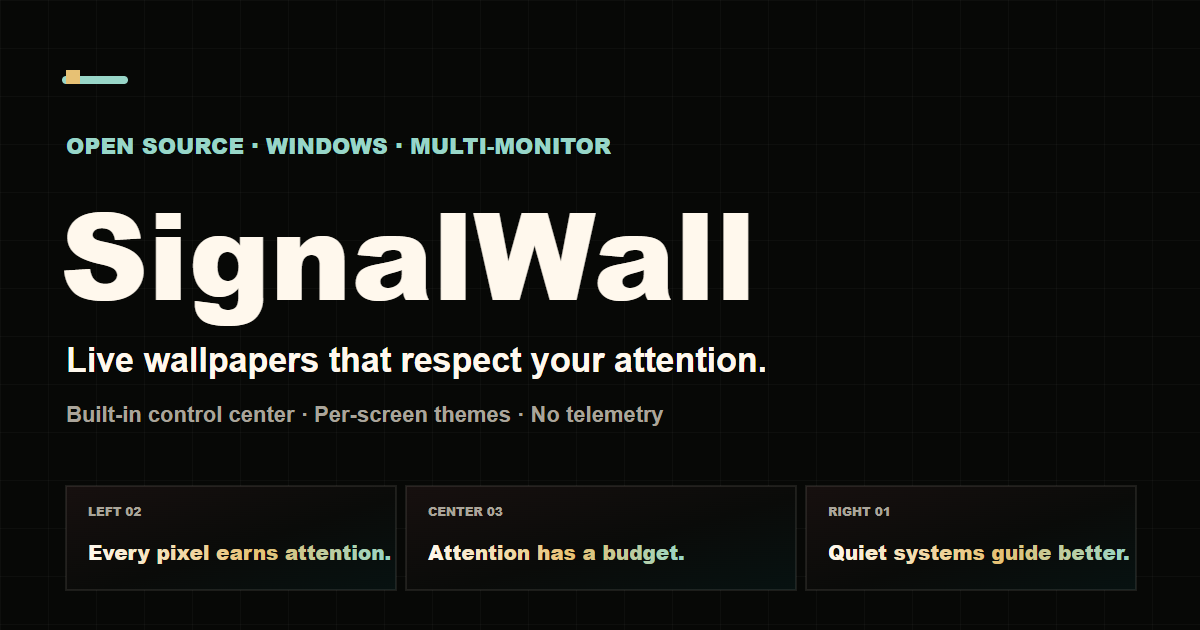
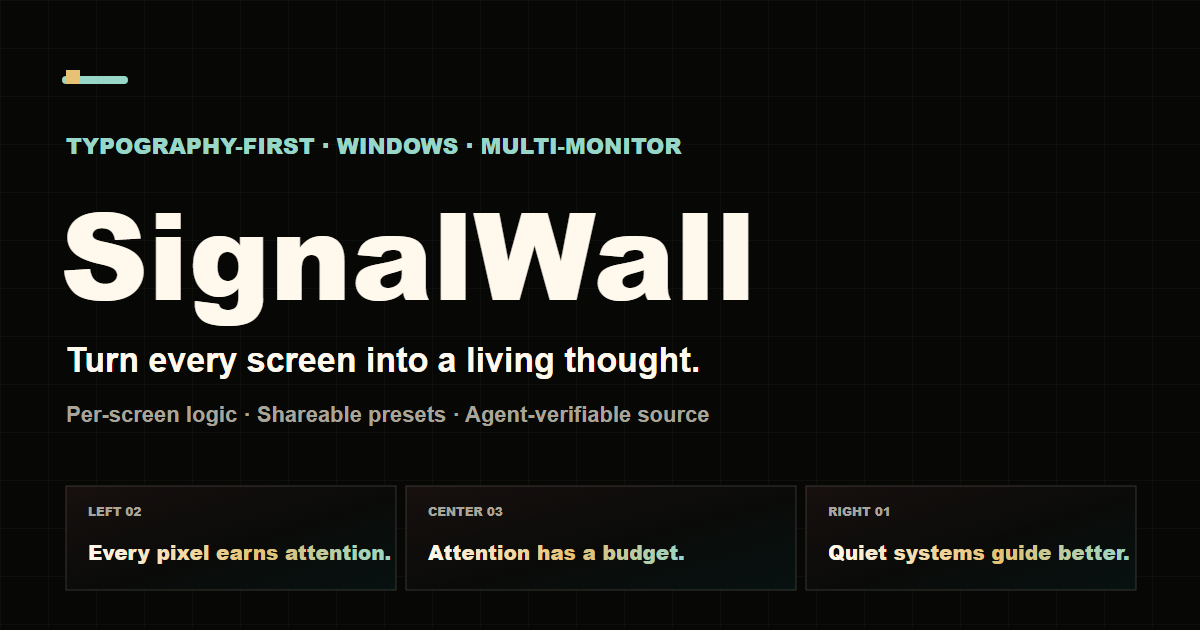
Sharpen SignalWall positioning

Changed region(s): [[0.0308, 0.5429, 0.6475, 0.6032], [0.0617, 0.6333, 0.5858, 0.6937], [0.0308, 0.2111, 0.5858, 0.2413]]

diff --git a/site.js b/site.js
@@ -8,25 +8,25 @@ const siteConfig = {
   },
   translations: {
     en: {
-      metaDescription: "SignalWall is a free, open-source Windows live wallpaper app with a built-in multi-monitor control center.",
-      pageTitle: "SignalWall - Live wallpapers that respect your attention",
+      metaDescription: "SignalWall is a free, open-source, typography-first live wallpaper system with independent controls for every Windows screen.",
+      pageTitle: "SignalWall - Typography-first live wallpapers for Windows",
       navDemo: "Live demo",
       navControl: "Control center",
       navTrust: "Trust",
       navInstall: "Install",
-      heroEyebrow: "Open source · Windows · Multi-monitor",
-      heroLead: "Live wallpapers that respect your attention.",
-      heroBody: "Quiet typography, subtle motion, and a built-in control center for every screen on your desk.",
+      heroEyebrow: "Typography-first · Windows · Multi-monitor",
+      heroLead: "Turn every screen into a living thought.",
+      heroBody: "Per-screen quotes, themes, timing, and motion, built for calm multi-monitor desks and shareable as one preset.",
       heroPrimary: "Get SignalWall",
       heroSecondary: "Try the live demo",
       trustOne: "No telemetry",
       trustTwo: "MIT licensed",
-      trustThree: "Attested releases",
+      trustThree: "Agent-verifiable",
       scrollLabel: "See it move",
-      stripOne: "One control center",
+      stripOne: "Typography, not video",
       stripTwo: "Independent screens",
-      stripThree: "Custom quote packs",
-      stripFour: "Five transition styles",
+      stripThree: "Shareable presets",
+      stripFour: "Agent-verifiable source",
       demoLabel: "Live product demo",
       demoTitle: "Three displays. One system.",
       demoIntro: "Change the mode, color, tempo, and transition. This is the same wallpaper engine bundled with SignalWall.",
@@ -57,14 +57,14 @@ const siteConfig = {
       controlPointFour: "Shareable preset files for complete setups",
       controlAlt: "SignalWall control center with settings and three screen columns",
       controlCaption: "Everything in one place. No Lively dependency.",
-      featuresLabel: "Built for daily use",
-      featuresTitle: "Calm is a feature.",
-      featureOneTitle: "Screen-aware",
-      featureOneBody: "Map physical left, center, and right displays instead of accepting arbitrary monitor numbers.",
-      featureTwoTitle: "Actually personal",
-      featureTwoBody: "Create your own themes and paste a full quote pack with one phrase per line.",
-      featureThreeTitle: "Source visible",
-      featureThreeBody: "No hidden telemetry. Inspect the C#, HTML, CSS, JavaScript, and release workflow.",
+      featuresLabel: "A different wallpaper category",
+      featuresTitle: "The words are the visual.",
+      featureOneTitle: "Typography-first",
+      featureOneBody: "Quotes, hierarchy, rhythm, and contrast are the medium, not an overlay on another wallpaper.",
+      featureTwoTitle: "Per-screen logic",
+      featureTwoBody: "Run one thought everywhere or assign each physical display its own quote pack and visual role.",
+      featureThreeTitle: "Portable setups",
+      featureThreeBody: "Export quotes, themes, screen order, timing, and motion as one shareable preset.",
       featureFourTitle: "Motion with restraint",
       featureFourBody: "Particles, grid, progress, and transitions are adjustable or removable.",
       trustLabel: "Proof, not promises",
@@ -82,12 +82,12 @@ const siteConfig = {
       copyVerify: "Copy command",
       copyDone: "Copied",
       installLabel: "Install with eyes open",
-      installTitle: "Open source first. Signed release next.",
-      installIntro: "Windows Smart App Control blocks unsigned desktop apps on strict systems. We do not ask you to disable it. Use the verified source workflow today while we pursue free open-source signing through SignPath Foundation.",
+      installTitle: "Let the source prove itself.",
+      installIntro: "Windows Smart App Control blocks unsigned desktop apps on strict systems. We do not ask you to disable it. Use the agent-verifiable source workflow today while we pursue free open-source signing through SignPath Foundation.",
       recommendedLabel: "Recommended now",
-      sourceInstallTitle: "AI-assisted source install",
-      sourceInstallBody: "Let Codex or Claude inspect the repository, build it locally, and report security findings before launch.",
-      sourceInstallCta: "Open verified prompt",
+      sourceInstallTitle: "Agent-verifiable source install",
+      sourceInstallBody: "Give Codex or Claude Code a purpose-built prompt to inspect the repository, review dependencies and workflows, build locally, and report security findings before launch.",
+      sourceInstallCta: "Open the audit prompt",
       releaseLabel: "For compatible systems",
       releaseTitle: "GitHub release",
       releaseBody: "Portable package, installer, checksums, SBOM, release manifest, and signed build provenance. Windows binaries remain unsigned.",
@@ -98,32 +98,32 @@ const siteConfig = {
       inspectBody: "Read the architecture, security policy, roadmap, CI, CodeQL, and release scripts.",
       inspectCta: "Browse source",
       closingLabel: "Signal over noise",
-      closingTitle: "Your desktop is already asking for attention. SignalWall asks less.",
+      closingTitle: "Not another video wallpaper. A calmer surface for thought.",
       closingPrimary: "Play with the demo",
       productHuntCta: "See the Product Hunt launch",
-      footerCopy: "Free, open source, and intentionally quiet.",
+      footerCopy: "Typography-first, open source, and intentionally quiet.",
       footerSecurity: "Security"
     },
     fr: {
-      metaDescription: "SignalWall est une application Windows gratuite et open source de fonds d’écran dynamiques avec un centre de contrôle multi-écran intégré.",
-      pageTitle: "SignalWall - Des fonds d’écran qui respectent votre attention",
+      metaDescription: "SignalWall est un système Windows gratuit et open source de fonds d’écran dynamiques centrés sur la typographie, avec des réglages indépendants pour chaque écran.",
+      pageTitle: "SignalWall - Des fonds d’écran typographiques pour Windows",
       navDemo: "Démo",
       navControl: "Centre de contrôle",
       navTrust: "Confiance",
       navInstall: "Installer",
-      heroEyebrow: "Open source · Windows · Multi-écran",
-      heroLead: "Des fonds d’écran qui respectent votre attention.",
-      heroBody: "Une typographie calme, un mouvement subtil et un centre de contrôle intégré pour chaque écran de votre bureau.",
+      heroEyebrow: "Centré sur la typographie · Windows · Multi-écran",
+      heroLead: "Transformez chaque écran en une pensée vivante.",
+      heroBody: "Citations, thèmes, rythme et mouvement par écran, conçus pour un bureau multi-écran calme et partageables dans un seul preset.",
       heroPrimary: "Obtenir SignalWall",
       heroSecondary: "Essayer la démo",
       trustOne: "Aucune télémétrie",
       trustTwo: "Licence MIT",
-      trustThree: "Releases attestées",
+      trustThree: "Vérifiable par un agent",
       scrollLabel: "Voir le mouvement",
-      stripOne: "Un seul centre de contrôle",
+      stripOne: "La typographie, pas la vidéo",
       stripTwo: "Écrans indépendants",
-      stripThree: "Packs de citations",
-      stripFour: "Cinq transitions",
+      stripThree: "Presets partageables",
+      stripFour: "Source vérifiable par un agent",
       demoLabel: "Démo interactive",
       demoTitle: "Trois écrans. Un seul système.",
       demoIntro: "Changez le mode, la couleur, le rythme et la transition. C’est le même moteur de fond d’écran que celui intégré à SignalWall.",
@@ -154,14 +154,14 @@ const siteConfig = {
       controlPointFour: "Fichiers de preset partageables pour une configuration complète",
       controlAlt: "Centre de contrôle SignalWall avec paramètres et trois colonnes d’écran",
       controlCaption: "Tout au même endroit. Aucune dépendance à Lively.",
-      featuresLabel: "Conçu pour le quotidien",
-      featuresTitle: "Le calme est une fonctionnalité.",
-      featureOneTitle: "Conscient des écrans",
-      featureOneBody: "Associez les écrans physiques gauche, central et droit au lieu d’accepter une numérotation arbitraire.",
-      featureTwoTitle: "Vraiment personnel",
-      featureTwoBody: "Créez vos thèmes et collez un pack complet avec une phrase par ligne.",
-      featureThreeTitle: "Source visible",
-      featureThreeBody: "Aucune télémétrie cachée. Inspectez le C#, le HTML, le CSS, le JavaScript et le workflow de release.",
+      featuresLabel: "Une autre catégorie de fond d’écran",
+      featuresTitle: "Les mots sont le visuel.",
+      featureOneTitle: "Centré sur la typographie",
+      featureOneBody: "Les citations, la hiérarchie, le rythme et le contraste sont le médium, pas une couche ajoutée à une autre image.",
+      featureTwoTitle: "Logique par écran",
+      featureTwoBody: "Affichez une pensée partout ou attribuez à chaque écran physique son pack de citations et son rôle visuel.",
+      featureThreeTitle: "Configurations portables",
+      featureThreeBody: "Exportez les citations, les thèmes, l’ordre des écrans, le rythme et le mouvement dans un preset partageable.",
       featureFourTitle: "Du mouvement avec retenue",
       featureFourBody: "Les particules, la grille, la progression et les transitions sont réglables ou désactivables.",
       trustLabel: "Des preuves, pas des promesses",
@@ -179,12 +179,12 @@ const siteConfig = {
       copyVerify: "Copier la commande",
       copyDone: "Copié",
       installLabel: "Installer en toute connaissance",
-      installTitle: "Open source aujourd’hui. Version signée ensuite.",
-      installIntro: "Windows Smart App Control bloque les applications non signées sur les systèmes stricts. Nous ne demandons pas de le désactiver. Utilisez le parcours source vérifié pendant que nous poursuivons une signature open source gratuite auprès de SignPath Foundation.",
+      installTitle: "Laissez la source faire ses preuves.",
+      installIntro: "Windows Smart App Control bloque les applications non signées sur les systèmes stricts. Nous ne demandons pas de le désactiver. Utilisez aujourd’hui le parcours source vérifiable par un agent pendant que nous poursuivons une signature open source gratuite auprès de SignPath Foundation.",
       recommendedLabel: "Recommandé maintenant",
-      sourceInstallTitle: "Installation source assistée par IA",
-      sourceInstallBody: "Demandez à Codex ou Claude d’inspecter le dépôt, de compiler localement et de présenter ses conclusions de sécurité avant le lancement.",
-      sourceInstallCta: "Ouvrir le prompt vérifié",
+      sourceInstallTitle: "Installation source vérifiable par un agent",
+      sourceInstallBody: "Donnez à Codex ou Claude Code un prompt conçu pour inspecter le dépôt, examiner les dépendances et les workflows, compiler localement et présenter ses conclusions de sécurité avant le lancement.",
+      sourceInstallCta: "Ouvrir le prompt d’audit",
       releaseLabel: "Pour les systèmes compatibles",
       releaseTitle: "Version GitHub",
       releaseBody: "Package portable, installateur, empreintes, SBOM, manifeste et provenance de build signée. Les binaires Windows restent non signés.",
@@ -195,10 +195,10 @@ const siteConfig = {
       inspectBody: "Consultez l’architecture, la politique de sécurité, la feuille de route, la CI, CodeQL et les scripts de release.",
       inspectCta: "Parcourir le code",
       closingLabel: "Le signal plutôt que le bruit",
-      closingTitle: "Votre bureau demande déjà votre attention. SignalWall en demande moins.",
+      closingTitle: "Pas un autre fond d’écran vidéo. Une surface plus calme pour vos idées.",
       closingPrimary: "Jouer avec la démo",
       productHuntCta: "Voir le lancement Product Hunt",
-      footerCopy: "Gratuit, open source et volontairement calme.",
+      footerCopy: "Centré sur la typographie, open source et volontairement calme.",
       footerSecurity: "Sécurité"
     }
   },

diff --git a/index.html b/index.html
@@ -4,18 +4,18 @@
   <meta charset="utf-8">
   <meta name="viewport" content="width=device-width, initial-scale=1">
   <meta name="theme-color" content="#070806">
-  <meta id="metaDescription" name="description" content="SignalWall is a free, open-source Windows live wallpaper app with a built-in multi-monitor control center.">
+  <meta id="metaDescription" name="description" content="SignalWall is a free, open-source, typography-first live wallpaper system with independent controls for every Windows screen.">
   <meta property="og:title" content="SignalWall by Nestcells">
-  <meta property="og:description" content="Calm, configurable live wallpapers for Windows multi-monitor desktops.">
+  <meta property="og:description" content="Typography-first live wallpapers with per-screen quotes, themes, motion, and shareable presets.">
   <meta property="og:type" content="website">
   <meta property="og:url" content="https://nestcells.com/">
-  <meta property="og:image" content="https://nestcells.com/assets/social-preview.png">
+  <meta property="og:image" content="https://nestcells.com/assets/social-preview.png?v=3">
   <meta property="og:locale" content="en_CA">
   <meta name="twitter:card" content="summary_large_image">
   <meta name="twitter:title" content="SignalWall by Nestcells">
-  <meta name="twitter:description" content="Calm, configurable live wallpapers for Windows multi-monitor desktops.">
-  <meta name="twitter:image" content="https://nestcells.com/assets/social-preview.png">
-  <title>SignalWall - Live wallpapers that respect your attention</title>
+  <meta name="twitter:description" content="Typography-first live wallpapers with per-screen quotes, themes, motion, and shareable presets.">
+  <meta name="twitter:image" content="https://nestcells.com/assets/social-preview.png?v=3">
+  <title>SignalWall - Typography-first live wallpapers for Windows</title>
   <link rel="canonical" href="https://nestcells.com/">
   <link rel="icon" type="image/png" href="assets/signalwall-icon.png">
   <link rel="preconnect" href="https://fonts.googleapis.com">
@@ -70,10 +70,10 @@
       </div>
 
       <div class="hero-copy">
-        <p class="eyebrow" data-i18n="heroEyebrow">Open source · Windows · Multi-monitor</p>
+        <p class="eyebrow" data-i18n="heroEyebrow">Typography-first · Windows · Multi-monitor</p>
         <h1 id="hero-title">SignalWall</h1>
-        <p class="hero-lead" data-i18n="heroLead">Live wallpapers that respect your attention.</p>
-        <p class="hero-body" data-i18n="heroBody">Quiet typography, subtle motion, and a built-in control center for every screen on your desk.</p>
+        <p class="hero-lead" data-i18n="heroLead">Turn every screen into a living thought.</p>
+        <p class="hero-body" data-i18n="heroBody">Per-screen quotes, themes, timing, and motion, built for calm multi-monitor desks and shareable as one preset.</p>
         <div class="hero-actions">
           <a class="button primary" href="#install" data-i18n="heroPrimary">Get SignalWall</a>
           <a class="button secondary" href="#demo" data-i18n="heroSecondary">Try the live demo</a>
@@ -81,7 +81,7 @@
         <div class="trust-line" aria-label="Project facts">
           <span data-i18n="trustOne">No telemetry</span>
           <span data-i18n="trustTwo">MIT licensed</span>
-          <span data-i18n="trustThree">Attested releases</span>
+          <span data-i18n="trustThree">Agent-verifiable</span>
         </div>
       </div>
 
@@ -92,10 +92,10 @@
     </section>
 
     <section class="signal-strip" aria-label="SignalWall capabilities">
-      <span data-i18n="stripOne">One control center</span>
+      <span data-i18n="stripOne">Typography, not video</span>
       <span data-i18n="stripTwo">Independent screens</span>
-      <span data-i18n="stripThree">Custom quote packs</span>
-      <span data-i18n="stripFour">Five transition styles</span>
+      <span data-i18n="stripThree">Shareable presets</span>
+      <span data-i18n="stripFour">Agent-verifiable source</span>
     </section>
 
     <section class="demo-section" id="demo" aria-labelledby="demo-title">
@@ -182,24 +182,24 @@
 
     <section class="feature-band" aria-labelledby="features-title">
       <div class="section-heading compact">
-        <p class="section-label" data-i18n="featuresLabel">Built for daily use</p>
-        <h2 id="features-title" data-i18n="featuresTitle">Calm is a feature.</h2>
+        <p class="section-label" data-i18n="featuresLabel">A different wallpaper category</p>
+        <h2 id="features-title" data-i18n="featuresTitle">The words are the visual.</h2>
       </div>
       <div class="feature-list">
         <article>
           <span>01</span>
-          <h3 data-i18n="featureOneTitle">Screen-aware</h3>
-          <p data-i18n="featureOneBody">Map physical left, center, and right displays instead of accepting arbitrary monitor numbers.</p>
+          <h3 data-i18n="featureOneTitle">Typography-first</h3>
+          <p data-i18n="featureOneBody">Quotes, hierarchy, rhythm, and contrast are the medium, not an overlay on another wallpaper.</p>
         </article>
         <article>
           <span>02</span>
-          <h3 data-i18n="featureTwoTitle">Actually personal</h3>
-          <p data-i18n="featureTwoBody">Create your own themes and paste a full quote pack with one phrase per line.</p>
+          <h3 data-i18n="featureTwoTitle">Per-screen logic</h3>
+          <p data-i18n="featureTwoBody">Run one thought everywhere or assign each physical display its own quote pack and visual role.</p>
         </article>
         <article>
           <span>03</span>
-          <h3 data-i18n="featureThreeTitle">Source visible</h3>
-          <p data-i18n="featureThreeBody">No hidden telemetry. Inspect the C#, HTML, CSS, JavaScript, and release workflow.</p>
+          <h3 data-i18n="featureThreeTitle">Portable setups</h3>
+          <p data-i18n="featureThreeBody">Export quotes, themes, screen order, timing, and motion as one shareable preset.</p>
         </article>
         <article>
           <span>04</span>
@@ -249,18 +249,18 @@
     <section class="install-section" id="install" aria-labelledby="install-title">
       <div class="section-heading">
         <p class="section-label" data-i18n="installLabel">Install with eyes open</p>
-        <h2 id="install-title" data-i18n="installTitle">Open source first. Signed release next.</h2>
-        <p data-i18n="installIntro">Windows Smart App Control blocks unsigned desktop apps on strict systems. We do not ask you to disable it. Use the verified source workflow today while we pursue free open-source signing through SignPath Foundation.</p>
+        <h2 id="install-title" data-i18n="installTitle">Let the source prove itself.</h2>
+        <p data-i18n="installIntro">Windows Smart App Control blocks unsigned desktop apps on strict systems. We do not ask you to disable it. Use the agent-verifiable source workflow today while we pursue free open-source signing through SignPath Foundation.</p>
       </div>
 
       <div class="install-paths">
         <article class="install-path recommended">
           <div>
             <span data-i18n="recommendedLabel">Recommended now</span>
-            <h3 data-i18n="sourceInstallTitle">AI-assisted source install</h3>
-            <p data-i18n="sourceInstallBody">Let Codex or Claude inspect the repository, build it locally, and report security findings before launch.</p>
+            <h3 data-i18n="sourceInstallTitle">Agent-verifiable source install</h3>
+            <p data-i18n="sourceInstallBody">Give Codex or Claude Code a purpose-built prompt to inspect the repository, review dependencies and workflows, build locally, and report security findings before launch.</p>
           </div>
-          <a class="button primary" id="sourceInstallButton" href="https://github.com/Sabertlili/signalwall/blob/main/docs/ai-assisted-install.en.md" data-i18n="sourceInstallCta">Open verified prompt</a>
+          <a class="button primary" id="sourceInstallButton" href="https://github.com/Sabertlili/signalwall/blob/main/docs/ai-assisted-install.en.md" data-i18n="sourceInstallCta">Open the audit prompt</a>
         </article>
         <article class="install-path">
           <div>
@@ -286,7 +286,7 @@
 
     <section class="closing-section">
       <p class="section-label" data-i18n="closingLabel">Signal over noise</p>
-      <h2 data-i18n="closingTitle">Your desktop is already asking for attention. SignalWall asks less.</h2>
+      <h2 data-i18n="closingTitle">Not another video wallpaper. A calmer surface for thought.</h2>
       <div class="closing-actions">
         <a class="button primary" href="#demo" data-i18n="closingPrimary">Play with the demo</a>
         <a class="text-link" href="https://www.producthunt.com/products/signalwall?launch=signalwall" rel="noreferrer" data-i18n="productHuntCta">See the Product Hunt launch</a>
@@ -299,7 +299,7 @@
       <img src="assets/signalwall-icon.png" alt="">
       <span>SignalWall</span>
     </div>
-    <p data-i18n="footerCopy">Free, open source, and intentionally quiet.</p>
+    <p data-i18n="footerCopy">Typography-first, open source, and intentionally quiet.</p>
     <div>
       <a href="https://github.com/Sabertlili/signalwall" rel="noreferrer">GitHub</a>
       <a href="https://github.com/Sabertlili/signalwall/blob/main/LICENSE" rel="noreferrer">MIT</a>
@@ -307,6 +307,6 @@
     </div>
   </footer>
 
-  <script src="site.js?v=20260619-v03"></script>
+  <script src="site.js?v=20260619-v04"></script>
 </body>
 </html>

diff --git a/README.md b/README.md
@@ -7,7 +7,7 @@ Includes:
 - bilingual EN/FR copy;
 - interactive mini demo;
 - Open Graph / Twitter share metadata;
-- source-first install CTA;
+- agent-verifiable source install CTA;
 - responsive screenshots and feature sections.
 
 The primary call to action is language-aware:
